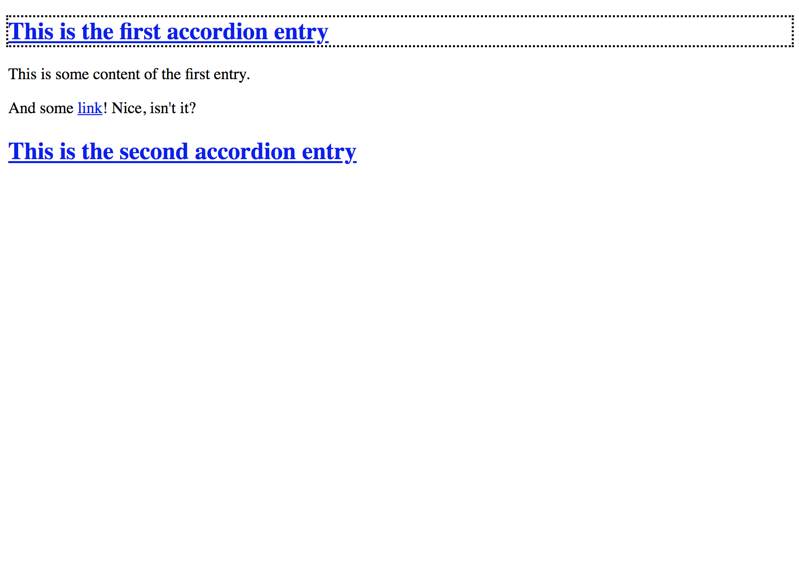
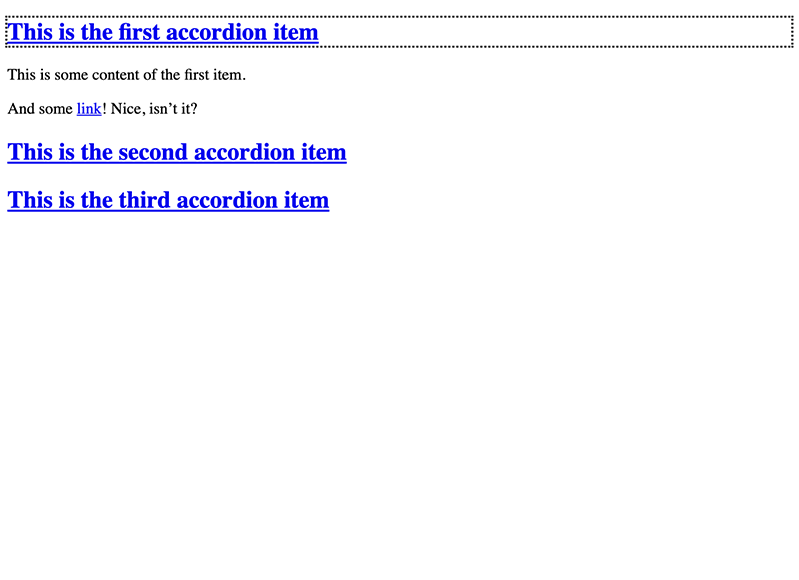
ADG-142 Refactor simple ARIA accordion

Changed region(s): [[0.0, 0.0, 0.4205, 0.2172], [0.0, 0.2483, 0.4506, 0.3724], [0.9612, 0.031, 1.0, 0.0931]]

diff --git a/pages/examples/widgets/accordion/_examples/accordion-with-aria/example.js b/pages/examples/widgets/accordion/_examples/accordion-with-aria/example.js
@@ -1,42 +1,40 @@
-;(function () {
-  var AdgAccordion
-
-  AdgAccordion = class AdgAccordion {
-    constructor (el) {
-      this.$el = $(el)
-      this.initHeadings()
-      this.initTogglers()
-    }
-
-    initHeadings () {
-      return (this.$headings = this.$el.find('[data-adg-accordion-target]'))
-    }
-
-    initTogglers () {
-      return this.$headings.each(function () {
-        var $container, $heading, $toggler, targetId
-        $heading = $(this)
-        $toggler = $heading
-          .wrap("<a href='#' aria-expanded='false'></a>")
-          .parent()
-        targetId = $heading.attr('data-adg-accordion-target')
-        $container = $('#' + targetId)
-        $container.hide()
-        return $toggler.click(e => {
-          $container.toggle()
-          $toggler.attr(
-            'aria-expanded',
-            $toggler.attr('aria-expanded') === 'false' ? 'true' : 'false'
-          )
-          return e.preventDefault()
-        })
-      })
-    }
+class AdgAccordion {
+  constructor (el) {
+    this.element = el
+    this.toggles = this.element.querySelectorAll('[aria-controls]')
+    this.initToggles()
   }
 
-  $(document).ready(function () {
-    return $('[data-adg-accordion]').each(function () {
-      return new AdgAccordion(this)
+  initToggles () {
+    this.toggles.forEach(toggle => {
+      const containerId = toggle.getAttribute('aria-controls')
+      const container = document.querySelector(`#${containerId}`)
+
+      this.hide(container, toggle)
+
+      toggle.addEventListener('click', () => {
+        if (container.hidden) {
+          this.show(container, toggle)
+        } else {
+          this.hide(container, toggle)
+        }
+      })
     })
-  })
-}.call(this))
+  }
+
+  show (container, toggle) {
+    container.hidden = false
+    toggle.setAttribute('aria-expanded', 'true')
+  }
+
+  hide (container, toggle) {
+    container.hidden = true
+    toggle.setAttribute('aria-expanded', 'false')
+  }
+}
+
+const accordions = []
+
+document
+  .querySelectorAll('[data-adg-accordion]')
+  .forEach(element => accordions.push(new AdgAccordion(element)))

diff --git a/pages/examples/widgets/accordion/_examples/accordion-with-aria/index.html b/pages/examples/widgets/accordion/_examples/accordion-with-aria/index.html
@@ -1,29 +1,40 @@
 <button>Focusable element before</button>
-<div data-adg-accordion="true">
-  <h2 data-adg-accordion-target="first_entry">
-    This is the first accordion entry
+<div data-adg-accordion="my-accordion">
+  <h2>
+    <button aria-controls="first_item">This is the first accordion item</button>
   </h2>
-  <div id="first_entry">
+  <section id="first_item">
     <p>
-      This is some content of the first entry.
+      This is some content of the first item.
     </p>
     <p>
-      And some <a href="#">link</a>! Nice, isn't it?
+      And some <a href="#">link</a>! Nice, isn’t it?
     </p>
-  </div>
-  <h2 data-adg-accordion-target="second_entry">
-    This is the second accordion entry
+  </section>
+  <h2>
+    <button aria-controls="second_item">This is the second accordion item</button>
   </h2>
-  <div id="second_entry">
+  <section id="second_item">
     <p>
-      This is some cocntent of the second entry.
+      This is some content of the second item.
     </p>
     <p>
       <label for="some_input">Some input: </label><input id="some_input" type="text" />
     </p>
     <p>
+      And another paragraph.
+    </p>
+  </section>
+  <h2>
+    <button aria-controls="third_item">This is the third accordion item</button>
+  </h2>
+  <section id="third_item">
+    <p>
+      This is some content of the third item.
+    </p>
+    <p>
       And finally a last paragraph.
     </p>
-  </div>
+  </section>
 </div>
 <button>Focusable element after</button>

diff --git a/pages/examples/widgets/accordion/_examples/accordion-with-aria/example.css b/pages/examples/widgets/accordion/_examples/accordion-with-aria/example.css
@@ -1,12 +1,13 @@
-*:focus {
+*:focus,
+[data-adg-accordion] button[aria-controls]:focus {
   outline: 2px dotted #000;
 }
 
-#first_entry,
-#second_entry {
-  display: none;
-}
-
-[data-adg-accordion] > a {
+[data-adg-accordion] button[aria-controls] {
+  all: inherit;
   display: block;
+  width: 100%;
+  color: #0000ee;
+  text-decoration: underline;
+  cursor: pointer;
 }
